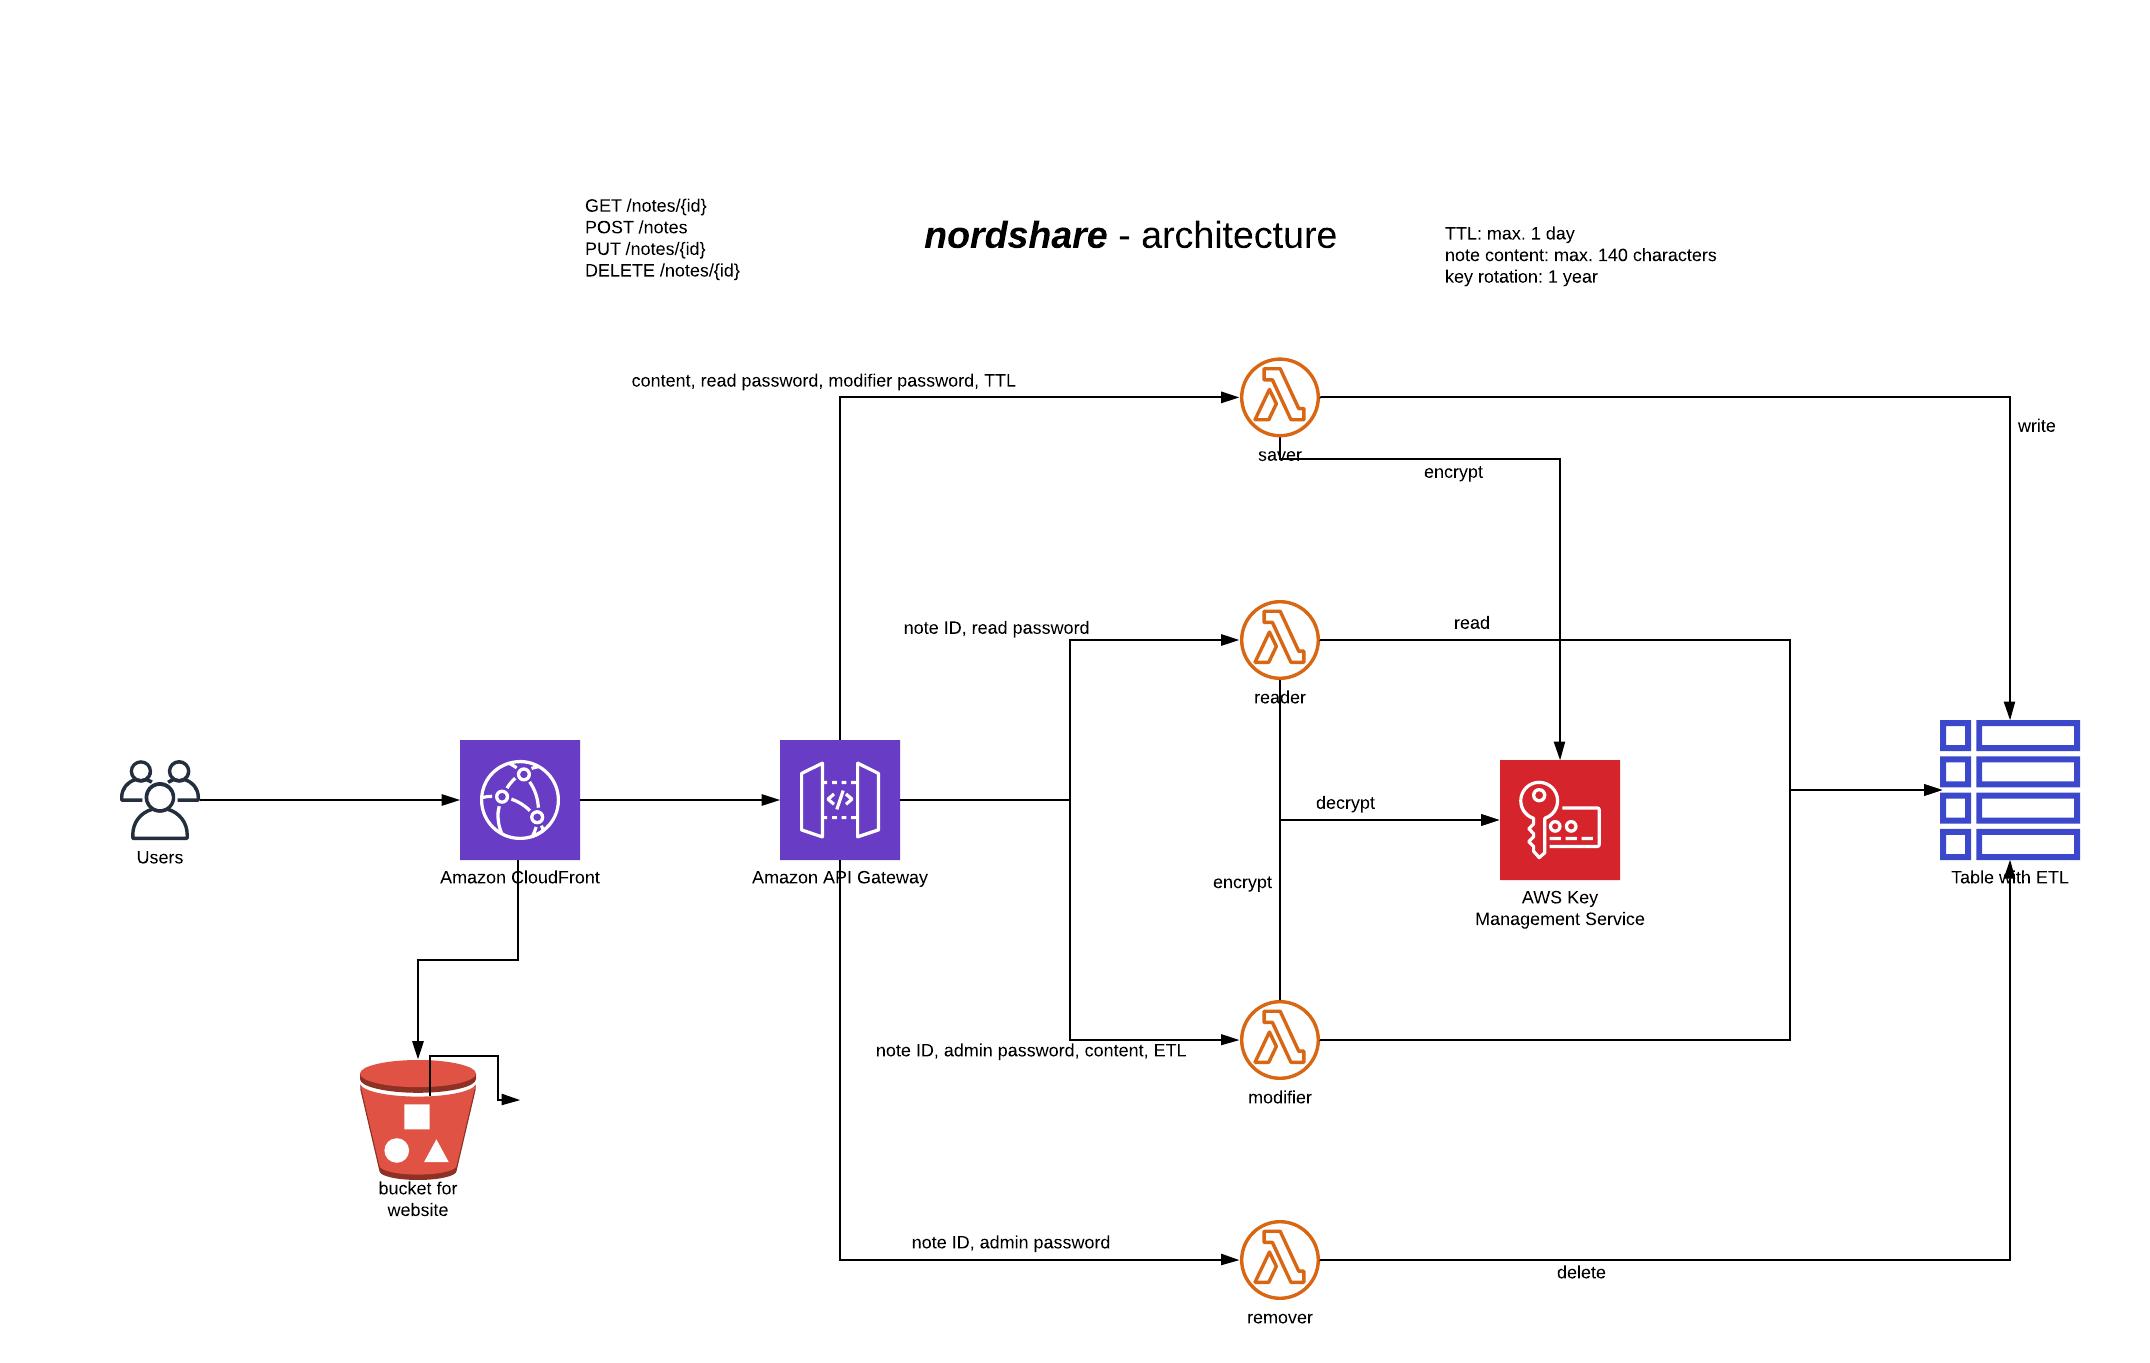
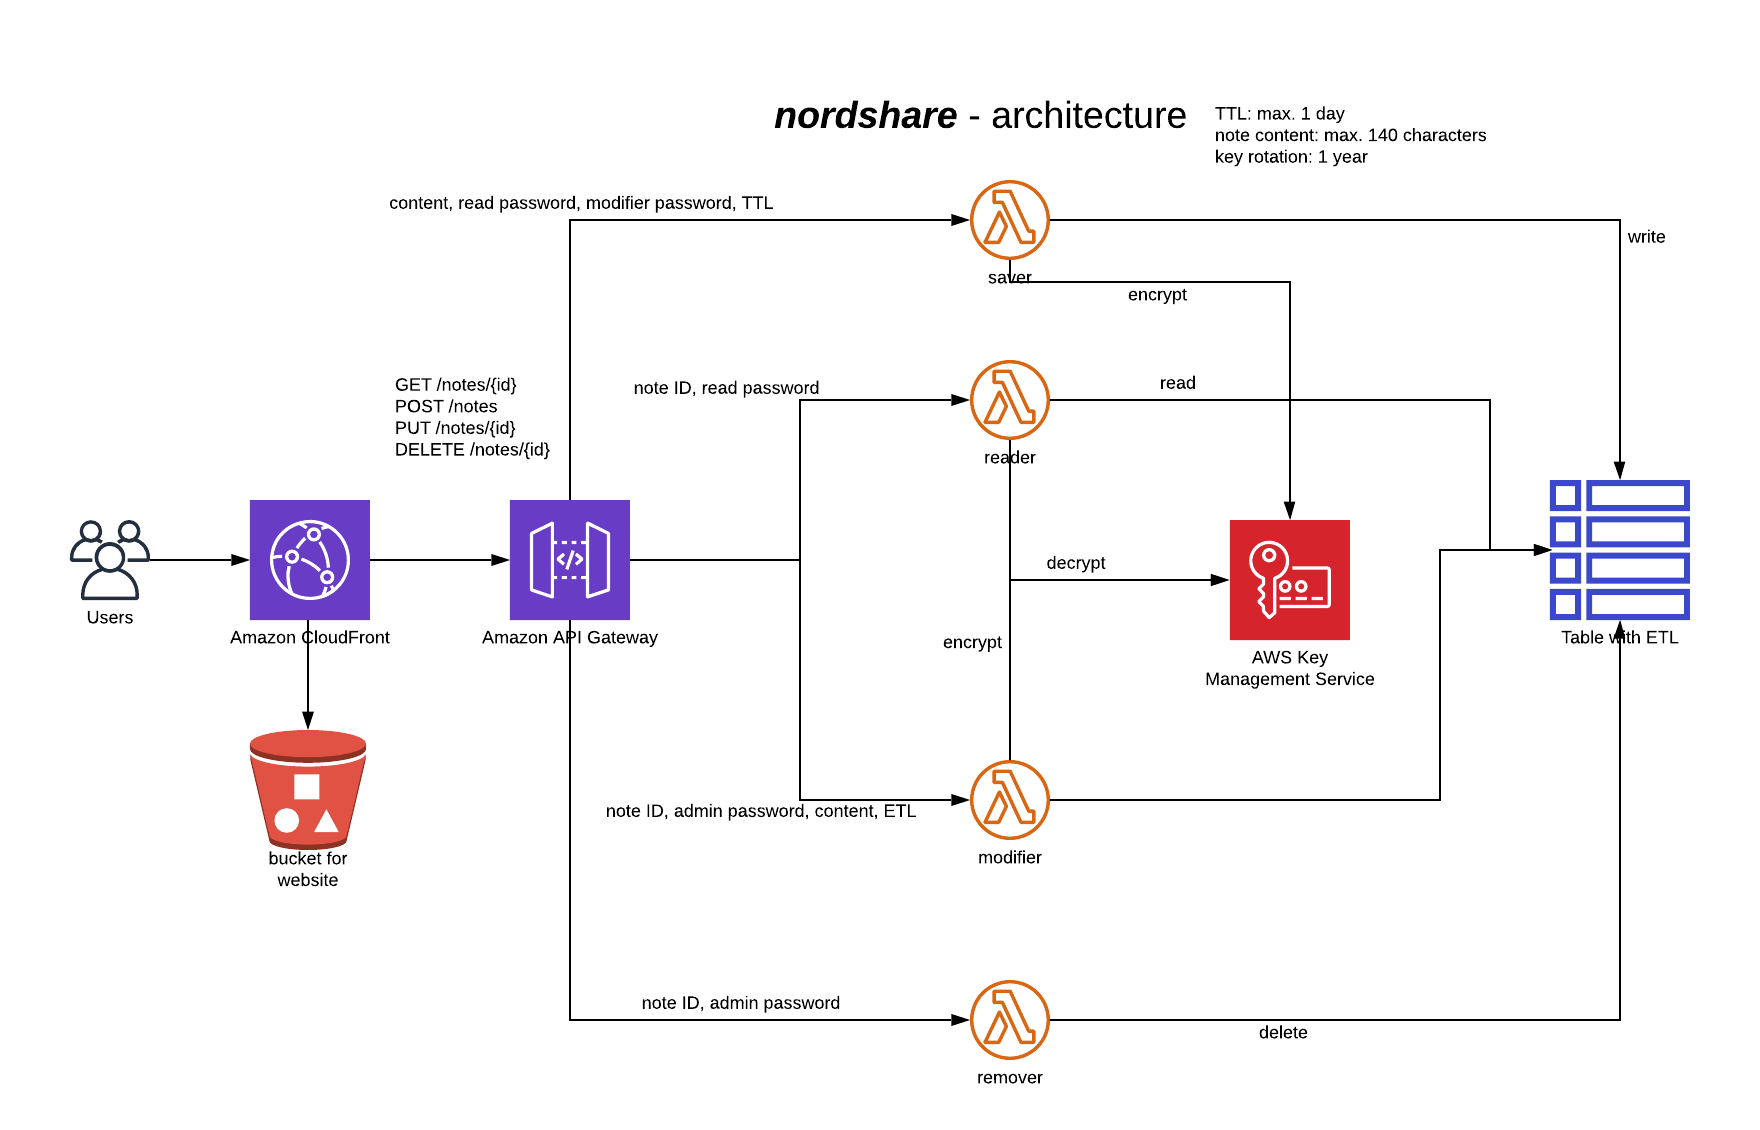
update README

diff --git a/README.md b/README.md
@@ -28,6 +28,8 @@
 * [Insomnia](https://insomnia.rest)
 * [GNU Make](https://www.gnu.org/software/make) :ox:
 
+![Architecture](https://github.com/czubocha/nordshare/blob/master/assets/architecture.png?raw=true)
+
 ### the fanciest features :tada:
 <details>
 <summary><b>ONE pipeline for backend and frontend with 0-click (master to production) continunous deployment with cacheable build environments, E2E tests and gradual deployment monitored by alarms with automatic rollback</b></summary>
@@ -54,8 +56,8 @@
 </details>  
 
 ### interesting facts:
-* AWS API Gateway lowercase headers for HTTP2 https://http2.github.io/http2-spec/#HttpHeaders'>https://http2.github.io/http2-spec/#HttpHeaders
-* local AWS API Gateway (`sam local start-api`) capitalize headers
+* AWS API Gateway lowercase headers for HTTP2 ([specification](https://http2.github.io/http2-spec/#HttpHeaders))
+* Local AWS API Gateway (`sam local start-api`) capitalize headers
 
 ---
 #### password rules:
@@ -65,7 +67,7 @@
 * reading note & time to note expiration
 * modifying content of note & time to note expiration
 * deleting note
-
+---
 * _password setting (both read & write) is **not** required_
 * _max TTL is 1 day (1440 minutes)_
 * _extending TTL possible by modifying (except case when write password is not set)_
